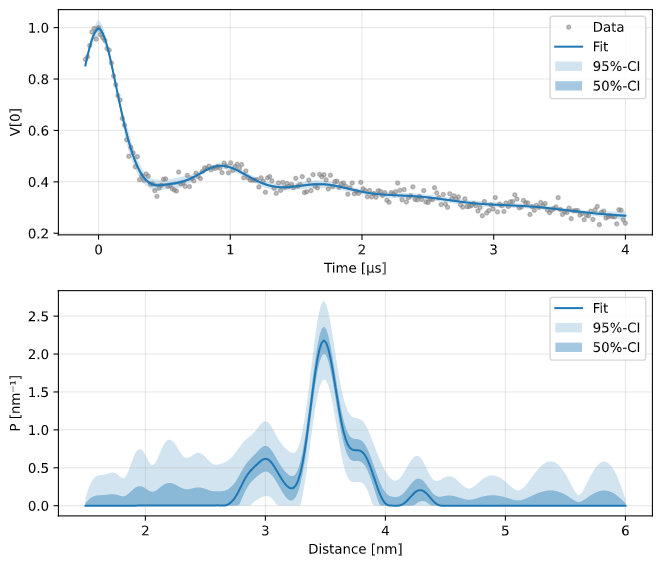
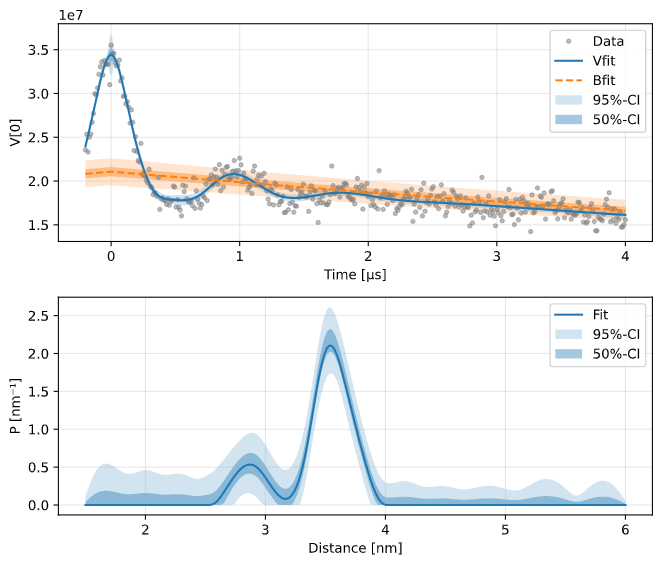
docs: update beginner's guide with new changes

diff --git a/docsrc/source/beginners_guide.rst b/docsrc/source/beginners_guide.rst
@@ -279,15 +279,16 @@ and fitted parameters with uncertainties, for example
 
 .. code-block:: text
 
-    -----------------------------------------------------------------------------------
+    -----------------------------------------------------------------------------------------
     Goodness of fit
-    Vexp[0]: chi2 = 1.008066  RMSD  = 0.019209
-    -----------------------------------------------------------------------------------
+    Vexp[0]: 𝛘2 = 25.510184  RMSD  = 1.953580e+07
+    -----------------------------------------------------------------------------------------
     Fitted parameters and 95%-confidence intervals
     Vfit[0]:
-    bgparam[0]:   292.02402  (230.33576, 353.71227)  Concentration of pumped spins (μM)
-    exparam[0]:   0.5097663  (0.4809968, 0.5385358)  Modulation depth ()
-    -----------------------------------------------------------------------------------
+    V0:  3.551e+07  Signal scale (a.u.)
+    bgparam[0]:   145.3121342  (111.0809911, 179.5432773)  Concentration of pumped spins (μM)
+    exparam[0]:   0.4066627  (0.3630338, 0.4502916)  Modulation depth ()
+    -----------------------------------------------------------------------------------------
 
 where there are no distribution parameters ``ddparam`` due to the distribution model being non-parametric. 
 
